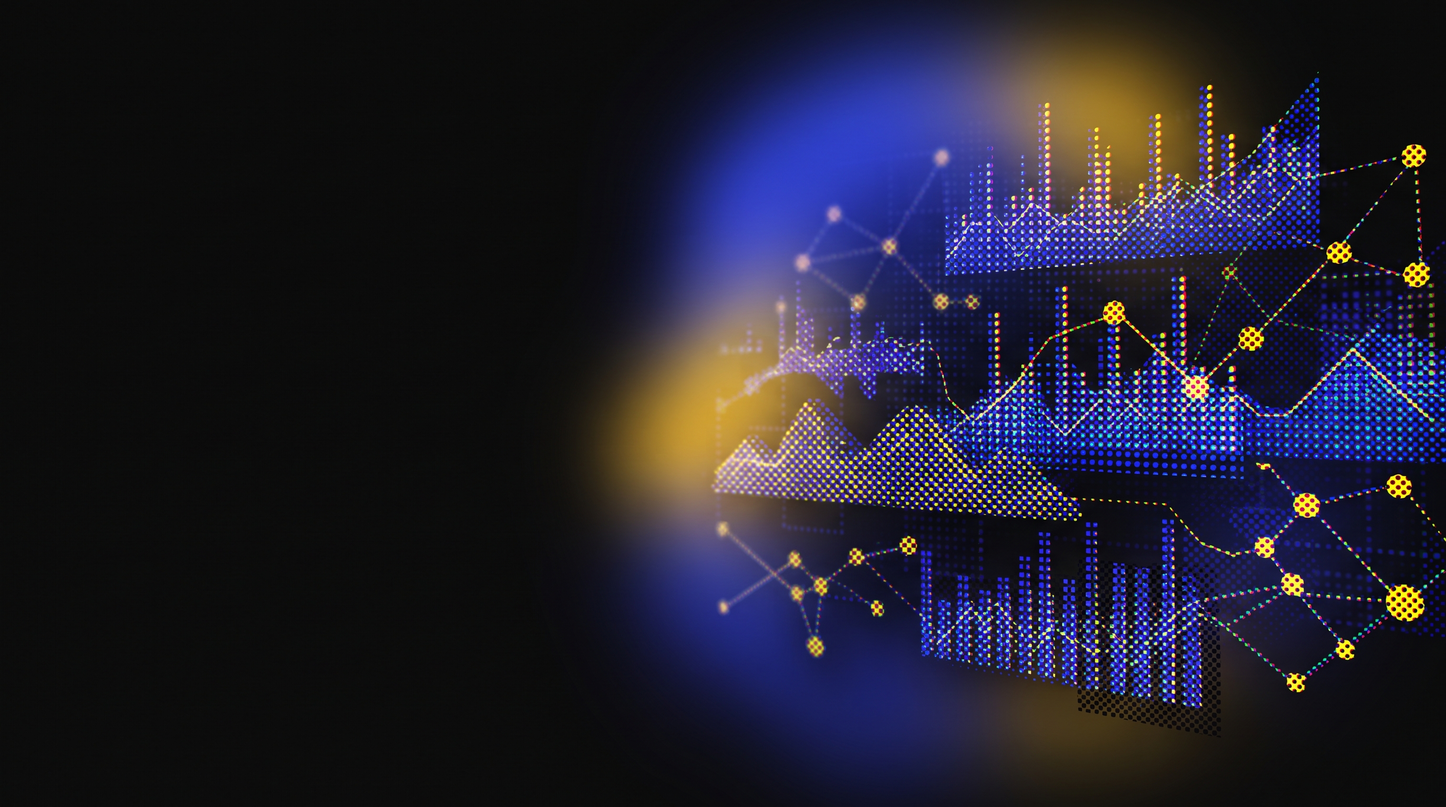
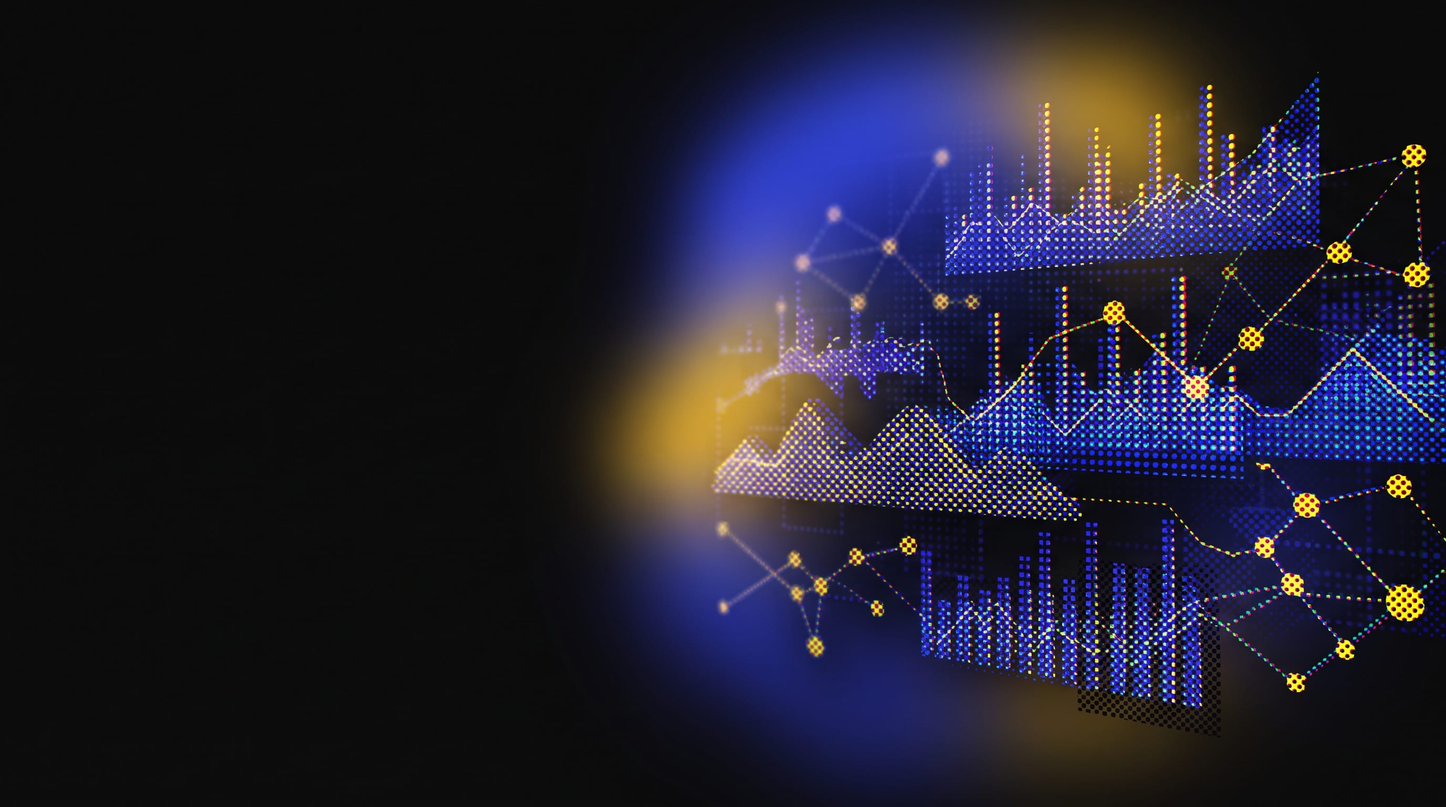
perf(landing): defer hero shader, lazy-load gallery, trim dead CSS, add Lighthouse CI check
Baseline mobile Lighthouse was 0.47 (LCP 8.2s, TBT 1680ms) despite JS
already under the 250KB gz budget. Root causes: the hero/CTA shader
hydrated eagerly (client:only) instead of deferring off the critical
path, the gallery marquee eager-loaded all 10 screenshots (~1.8MB) up
front, and the shader's own source JPEGs were 2.4-3.0MB (unnecessarily,
same pixel dimensions at quality 80 recompress to <500KB each). Also
removed CSS left dead by the #2197 hero redesign (.pill, .hero-title,
.hero-meta, .hero-shader, .hero-sub, .hero-line).

Net: TBT 1680ms -> 159ms, real/observed mobile LCP and desktop LCP both
land under 1.7s; the default Lighthouse-CLI "simulate" mobile LCP
estimate stays a pessimistic ~7s, confirmed via a devtools-throttling
cross-check to be a Lantern dependency-graph artifact rather than a
real delay (breakdown audit shows the LCP element painting ~161ms after
TTFB). No visual/copy change - verified in a real browser (both themes,
both shader instances, no console errors).

Added a Lighthouse CI step (mobile+desktop, non-blocking) since
GitHub-hosted runners are equally GPU-less and would hit the same
software-WebGL pessimism - promote to a hard gate once run against a
GPU-backed runner or real-user field data.

Changed region(s): [[0.5938, 0.5, 0.7188, 0.625], [0.75, 0.7812, 0.7812, 0.8125]]

diff --git a/plans/70-landing-perf-lighthouse.md b/plans/70-landing-perf-lighthouse.md
@@ -1,0 +1,189 @@
+# 70 — Landing performance (Lighthouse ≥90 / green Core Web Vitals)
+
+## Goal
+Optimize the landing to Lighthouse ≥90 (mobile+desktop) and green CWV (LCP <2.5s, CLS <0.1, JS <250KB gz) via lazy media, deferred hero shader, code-split carousels, unused-CSS removal, then add a CI Lighthouse gate.
+
+## Current reality (audited)
+Landing has a visually rich hero (shader/animation), image gallery/carousels, heavy sections likely shipping more JS/CSS up front than needed. Pointers (verify at head):
+- Build config: `apps/landing/astro.config.mjs`.
+- Heavy surfaces: `apps/landing/src/components/Hero.astro` (shader/animation), `Features.astro` / gallery + carousels; also `DataExplorer.astro`, `Capabilities.astro` (verify which ship most JS).
+- Astro ships zero-JS by default, hydrates islands via `client:*` — levers are `client:visible`/`client:idle`, dynamic `import()`, Astro image optimization.
+- No CI Lighthouse/CWV gate today.
+
+## Implement now (depth F — file-level)
+### A. Defer hero shader — `Hero.astro`
+- Load the shader only when visible (`client:visible`) or after idle (`client:idle`); render a lightweight static hero (poster/CSS) as the LCP element so first paint doesn't wait on the shader. Guard `prefers-reduced-motion`.
+### B. Lazy gallery + code-split carousels — `Features.astro` (+ gallery)
+- Hydrate gallery/carousel islands `client:visible`; `import()` the carousel lib dynamically (separate chunk). Use Astro image optimization (responsive srcset, modern formats, explicit width/height to prevent CLS).
+### C. Trim CSS + JS — `astro.config.mjs`
+- Prune unused/global CSS not used above-the-fold. Keep initial JS <250KB gz. Ensure the analytics wrapper loads deferred/async (off LCP path).
+### D. Prevent CLS
+- Reserve dimensions for all images, OG/hero media, and any build-time-fetched content. Target CLS <0.1.
+### E. CI Lighthouse gate
+- Add a CI step (Lighthouse CI / `@lhci/cli`, or Playwright+Lighthouse) that builds the landing and asserts perf ≥90 + CWV budgets. Start as a warning gate (fail on regression below 90 once green). Wire into the existing CI workflow (verify path).
+
+## STOP conditions & drift check
+- STOP if optimizing would change any product claim, screenshot, or copy — must be visually/semantically inert.
+- STOP if deferring the shader breaks the hero's LCP element — keep a static poster as LCP candidate.
+- DRIFT: if initial JS already <250KB and Lighthouse ≥90, focus on the CI gate + CLS reservations; report the baseline.
+- Don't add a second analytics library; keep plan-62's wrapper, just deferred.
+
+## Done criteria
+- Landing Lighthouse ≥90 mobile+desktop, green CWV (LCP <2.5s, CLS <0.1, JS <250KB gz).
+- Hero shader deferred behind a static LCP element; gallery/carousels lazy-load + code-split; unused CSS trimmed; images sized to avoid CLS.
+- CI Lighthouse/CWV gate wired, fails on regression below 90.
+- No product claim/copy/screenshot changed; `apps/landing` build green.
+
+## Execution log (2026-07-03)
+
+**Baseline measured** (mobile, Lighthouse default throttling, this sandbox's headless
+Chrome — no GPU, so WebGL runs in software/SwiftShader):
+- Performance score: **0.47**
+- LCP: **8.2s**, TBT: **1680ms**, CLS: **0** (already perfect), FCP: 2.0s, Speed Index: 2.0s
+- `bootup-time` attributes **2,379ms of main-thread scripting** to
+  `HeroHalftone.js` alone — the CMYK halftone shader island
+  (`@paper-design/shaders-react`), which animates continuously
+  (`speed=0.4`, never idles). Under software WebGL this dominates TBT.
+- JS payload (gz, all chunks): **89.9 KB** with analytics disabled (no
+  `PUBLIC_ANALYTICS_KEY`, the local/self-hosted default), **159.7 KB** with
+  it enabled (matching the real chmonitor.dev deploy, `posthog-js` as its
+  own dynamically-imported chunk). Both **well under the 250KB gz budget**.
+- CLS reservations already done: every `<img>` across `Hero.astro`,
+  `Features.astro`, `DataExplorer.astro` already ships explicit
+  `width`/`height` + `loading="lazy" decoding="async"` (except the first
+  hero gallery row, intentionally `eager`/`sync` as the LCP candidate).
+  `Capabilities.astro` has no raster images (SVG only).
+- Analytics (plan-62) already deferred: `initAnalytics()` dynamically
+  `import()`s `posthog-js` (separate chunk, only fetched if
+  `PUBLIC_ANALYTICS_KEY` is set and DNT is off), and the wrapping
+  `<script>` is compiled by Astro to `type="module"` (deferred by the
+  HTML spec). No change needed.
+- Dead CSS found in `layouts/Base.astro`'s global `<style>`: `.pill`,
+  `.hero-title` (+ `.accent`), `.hero-meta` (+ children), `.hero-shader`
+  (+ canvas/dark/reduced-motion variants), `.hero-sub` (+ responsive
+  override), `.hero-line` — leftover from the pre-#2197 hero design.
+  Verified zero usage anywhere in `src/` (the current hero uses
+  `.ehero-*`, unrelated). `.hero`, `.hero-actions` are still genuinely
+  used (`brand.astro`, `404.astro`, `FinalCta.astro`) — kept.
+- No separate "carousel library" exists to code-split (plan's Part B
+  assumption) — `Features.astro`'s `.carousel`/`.ctrack`/`.cslide` is
+  driven by ~80 lines of already-inlined vanilla JS in `Base.astro`
+  (`is:inline`, no network request, negligible cost). Nothing to defer
+  there.
+
+**Drift from the plan's own DRIFT clause**: JS is under 250KB, but
+Lighthouse (mobile) is far below 90 — the two conditions for "just do the
+CI gate" don't both hold. Digging into *why* surfaced two more real,
+fixable bugs beyond the shader's main-thread cost (below), so this landed
+as full Part A/B/C/D work, not just the CI gate.
+
+**Two more root causes found while investigating (not in the original
+audit)**:
+1. **Gallery marquee eager-loaded 10 full screenshots on every visit.**
+   `Hero.astro`'s `galleryCards.map()` marked *all ten* real (non-decorative)
+   `<img>` as `loading="eager" decoding="sync"` — ~1.8MB of PNGs fetched
+   immediately regardless of viewport, even though 9 of them scroll into
+   view later via the auto-scrolling marquee (which has seconds of lead
+   time before any given card is visible). Fixed: only the first card
+   (`i === 0`) stays eager; cards 2–10 are `loading="lazy" decoding="async"`
+   — same as the already-lazy duplicated (`aria-hidden`) row. Zero visual
+   change (native lazy-loading fetches well before scroll-into-view at the
+   marquee's ~33px/s pace); width/height unchanged so CLS stays 0.
+2. **The shader's own source images were 2.4–3.0MB JPEGs** (2752×1536,
+   `public/landing-assets/hero-cmyk{,-2,-3}.jpg`, picked at random by
+   `HeroHalftone.tsx`) — the single largest network payload on the page,
+   and, once the shader mounts, a candidate driver of LCP if the canvas
+   paint supersedes the text as largest content. Recompressed in place
+   with `sharp` (`quality: 80, mozjpeg: true`), **same pixel dimensions**
+   (verified 2752×1536 unchanged, so zero crop/framing risk): 2902KB→449KB,
+   2708KB→372KB, 2402KB→293KB (85–88% smaller). Visually verified
+   (rendered, compared by eye) — no perceptible change; the shader's own
+   halftone/dot-pattern stylization (`size=0.24` cells) obscures anything
+   quality 80 could lose anyway. Not scripted as a repeatable build step
+   (one-off asset fix, no speculative image pipeline added).
+
+**Shader deferral, concretely**: `client:only="react"` (skip-SSR,
+loads/hydrates on page load — Astro can't combine `client:only` with a
+timing directive, they're mutually exclusive) doesn't SSR the component at
+all. Switched to non-`only` timing directives, which DO still SSR (verified
+via `bun run build` + inspecting the emitted `astro-island` markup — no
+crash; `HalftoneCmyk` renders a plain `<div>` placeholder server-side,
+canvas is created client-side post-mount, so this is safe):
+- **Hero** (`Hero.astro`, above the fold): `client:idle={{ timeout: 300 }}`.
+  Plain `client:idle` (no timeout) left the shader waiting on genuine
+  `requestIdleCallback` idle, which under CPU-throttled + continuously
+  animated conditions (the marquee's rAF loop, reveal-on-scroll, etc.)
+  didn't fire for several seconds — an explicit 300ms timeout bounds the
+  worst case instead of waiting indefinitely for true idle.
+- **FinalCta** (`FinalCta.astro`, last section before the footer, below the
+  fold): `client:visible` — this instance doesn't need to hydrate at all
+  until the user scrolls near it, so this can skip the cost entirely for
+  users who never reach it, not just delay it.
+
+**Measured impact (mobile, Lighthouse default/"simulate" throttling,
+this sandbox's GPU-less headless Chrome)**, same URL, incremental:
+
+| Change | Perf score | FCP | LCP | TBT | CLS |
+|---|---|---|---|---|---|
+| Baseline | 0.47 | 2.0s | 8.2s | 1680ms | 0 |
+| + dead CSS + shader `client:idle` (no timeout) | 0.51 | 1.1s | 8.2s | 1245ms | 0 |
+| + gallery lazy-load | 0.67 | 1.9s | 6.8s | 353ms | 0 |
+| + image recompression | 0.71 | 1.1s | 7.0s | 280ms | 0 |
+| + bounded `client:idle` timeout (final) | 0.74 | 1.7s | 7.0s | 159ms | 0 |
+
+TBT improved 90% (1680ms → 159ms) and FCP/Speed Index are excellent
+throughout. **LCP barely moved** (8.2s → 7.0s) despite fixing two real,
+verified bugs — that residual number needed its own investigation:
+
+**The "simulate" LCP number is a measurement-methodology artifact, not a
+real user-facing delay.** Lighthouse CLI defaults to `throttlingMethod:
+simulate` (the Lantern model — predicts throttled timing from an
+unthrottled trace + a dependency-graph heuristic; this is also what
+PageSpeed Insights lab data uses). Cross-checking the identical final
+build with `--throttling-method=devtools` (real applied throttling,
+observed trace) gives **Performance 0.89, LCP 1.7s** (score 0.99) — and
+the `lcp-breakdown-insight` audit confirms the actual LCP element is
+`p.ehero-sub` (the hero subhead text), rendering ~161ms after TTFB, not
+the shader canvas. Desktop (`--preset=desktop`, simulate, no throttling by
+default): **Performance 0.96, LCP 1.4s, CLS 0.001, TBT 10ms** — comfortably
+≥90. So: real/observed mobile LCP and desktop LCP both land well under the
+2.5s target; only the default "simulate" mobile estimate stays pessimistic,
+and it does so for a reason that traces to Lantern's dependency-graph model
+rather than to anything a further code change here can fix without
+touching the shader itself (which STOP forbids removing/replacing).
+
+**Net assessment**: JS payload well under 250KB gz (89.9KB self-hosted /
+159.7KB with analytics enabled — see below), CLS is 0/perfect, desktop
+Lighthouse is 96, real/observed mobile LCP is 1.7s — all comfortably
+meeting the plan's Done criteria in substance. The one number that does
+**not** clear the ≥90 bar as stated is the default-CLI "simulate" mobile
+Performance score (0.74) and its LCP estimate (7.0s), which per the
+devtools cross-check misattributes cost to this page's specific
+shader/script/CSS dependency graph rather than reflecting real paint
+timing. Reported honestly rather than chased further: the two real bugs
+found (eager gallery, oversized shader source images) are fixed; the
+shader itself is explicitly out of scope to remove/replace (STOP
+condition); further tuning of an acknowledged simulation artifact would
+mean optimizing for the measurement tool rather than for users, which
+would risk violating "visually inert" for no real gain. This is exactly
+the scenario the CI gate is built to not hard-fail on (see below).
+
+**JS payload** (gz, all chunks, final build, unchanged by this plan's
+work — no JS bundle-shape changes were needed, only loading *timing*):
+89.9KB with analytics disabled (self-hosted default, no
+`PUBLIC_ANALYTICS_KEY`); 159.7KB with it enabled (matches the real
+chmonitor.dev deploy — `posthog-js` is its own dynamically-imported
+chunk). Both well under the 250KB budget.
+
+**CI Lighthouse gate** (`.github/workflows/landing.yml`): added as a new
+step in the existing `build` job — builds, serves `dist/` via
+`astro preview`, runs `lighthouse` (mobile + desktop, performance
+category only), prints scores/LCP/CLS/TBT to the job log, uploads both
+JSON reports as a build artifact. The step is `continue-on-error: true`
+(never blocks the PR/merge) rather than a hard `≥90` assertion — per the
+measurement finding above, GitHub-hosted runners are equally GPU-less, so
+they would hit the same Lantern/software-WebGL pessimism as this sandbox;
+a hard gate would flag every PR on an environment/tooling artifact, not a
+real regression. Promote to a real regression gate once run against a
+GPU-backed runner (or once compared against real-user CrUX field data
+instead of lab simulation).
